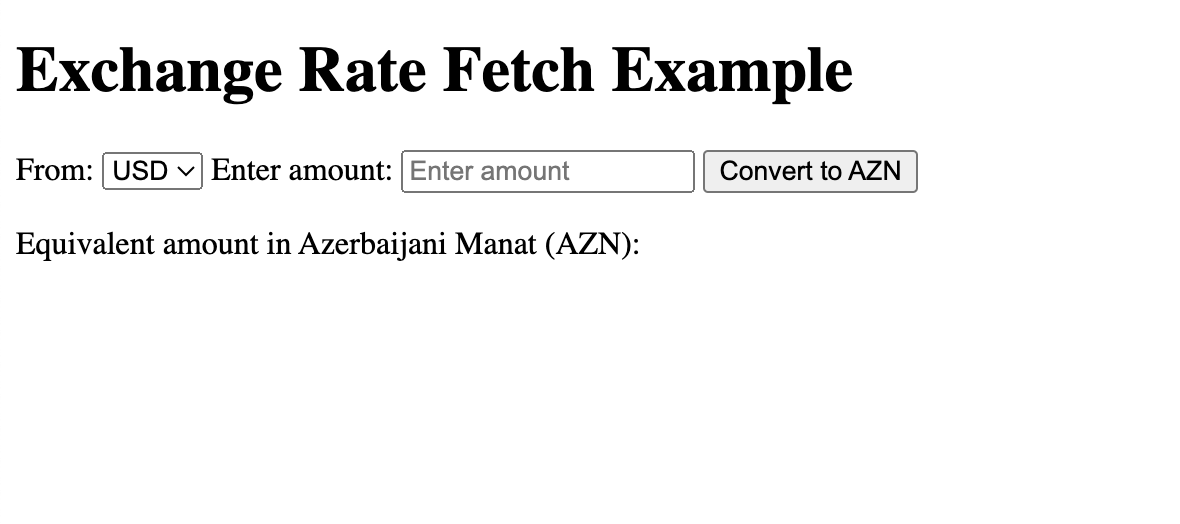
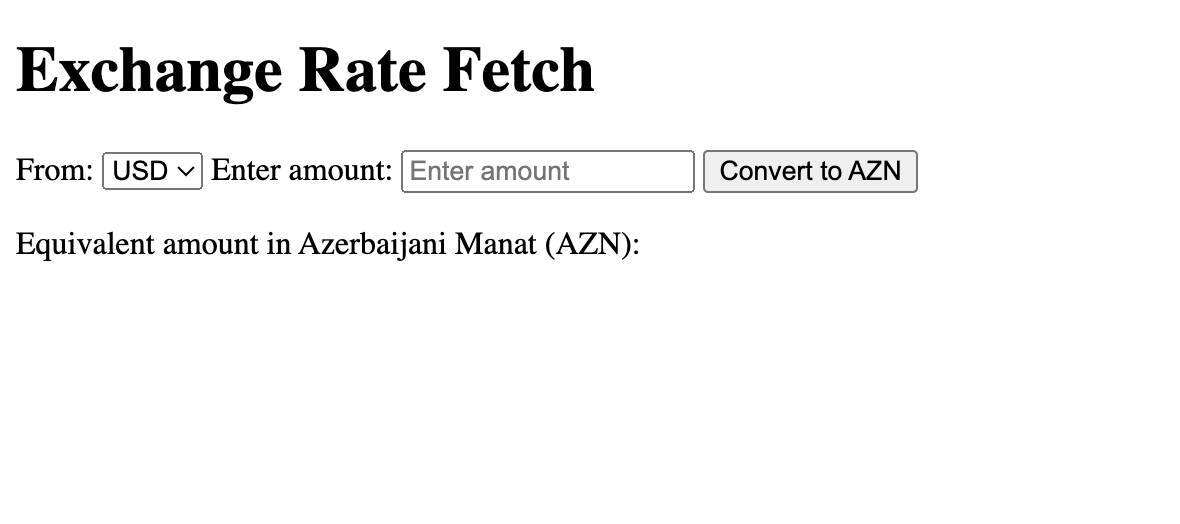
new screenshot photo was added

Changed region(s): [[0.5186, 0.0916, 0.7322, 0.2137]]

diff --git a/currency_exchange.html b/currency_exchange.html
@@ -4,7 +4,7 @@
   <title>Exchange Rate Fetch</title>
 </head>
 <body>
-  <h1>Exchange Rate Fetch Example</h1>
+  <h1>Exchange Rate Fetch</h1>
   <label for="fromCurrency">From:</label>
   <select id="fromCurrency">
     <option value="USD">USD</option>
